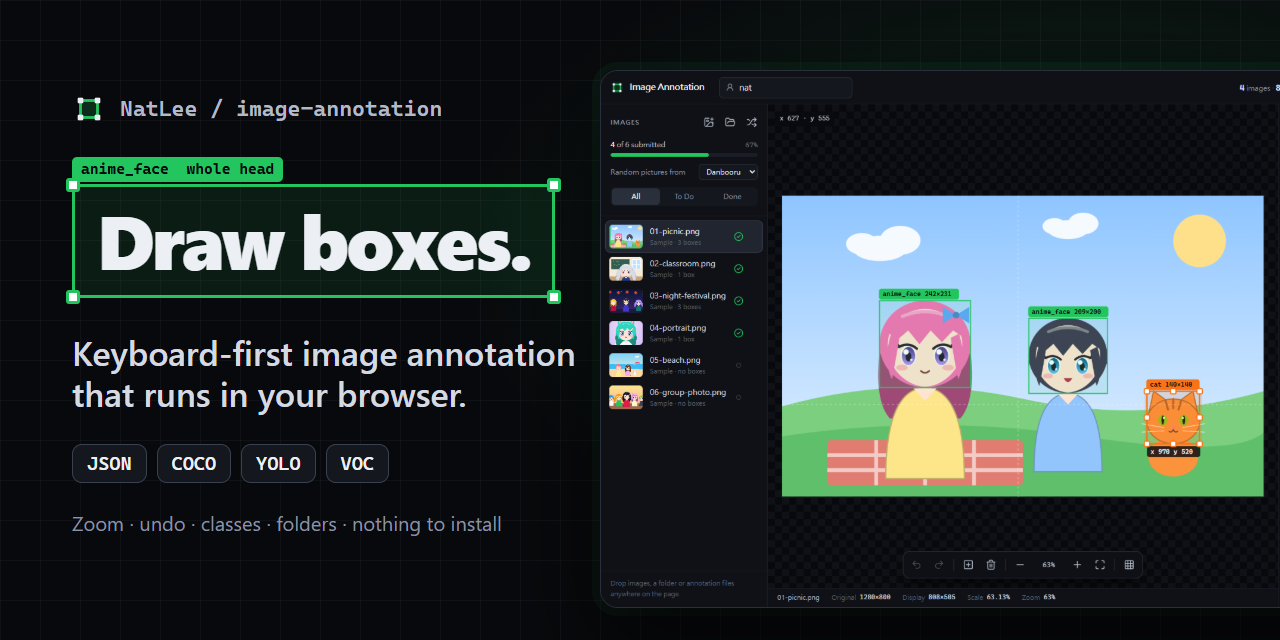
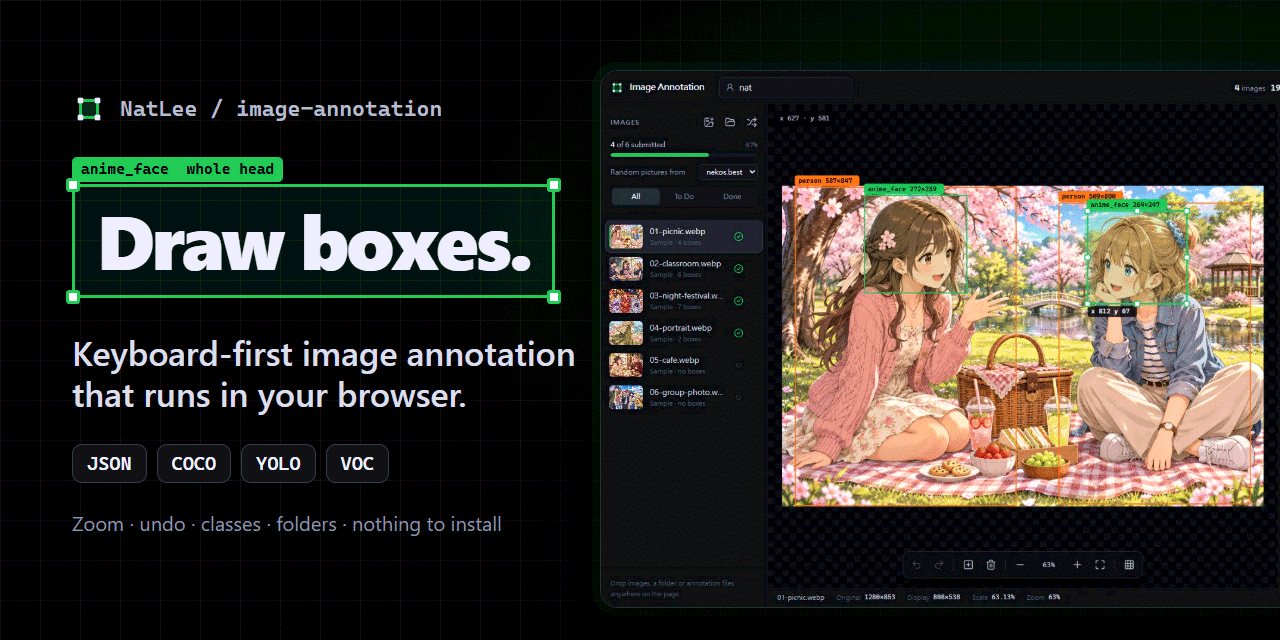
docs: refresh the README for nekos.best by default and the new samples
Screenshots, the GIF and the cover are re-rendered with the new sample
pictures (online sources blocked, so no third-party art is committed).
The editor shot is now a JPEG and the cover is quantised to 256
colours: the detailed pictures made the PNGs three times bigger.

The text says nekos.best is the default, Danbooru is optional, each
picture is one plain request, and failures carry a report code.

diff --git a/docs/images/cover.html b/docs/images/cover.html
@@ -42,7 +42,7 @@
     </style>
   </head>
   <body>
-    <img class="shot" src="editor.png" alt="" />
+    <img class="shot" src="editor.jpg" alt="" />
     <div class="copy">
       <div class="brand">
         <svg width="34" height="34" viewBox="0 0 24 24"><rect x="6" y="6" width="12" height="12" rx="1.5" fill="rgb(34 197 94 / .18)" stroke="#22c55e" stroke-width="2"/><g fill="#eceff4"><rect x="4" y="4" width="4" height="4" rx="1"/><rect x="16" y="4" width="4" height="4" rx="1"/><rect x="4" y="16" width="4" height="4" rx="1"/><rect x="16" y="16" width="4" height="4" rx="1"/></g></svg>

diff --git a/README.md b/README.md
@@ -10,11 +10,11 @@
 ![React 19](https://img.shields.io/badge/React-19-149eca)
 ![Vite 8](https://img.shields.io/badge/Vite-8-646cff)
 
-A keyboard-first bounding-box annotator that runs entirely in your browser. Start with random anime pictures from Danbooru, open a folder of your own images, or use the built-in illustrations offline; drag boxes around what matters, sort them into colour-coded classes, and export everything as COCO, YOLO, Pascal VOC or the app's own JSON. It began as a little crowd-sourcing tool for boxing anime faces, and it still does that, but it now handles any small labelling job. Nothing is uploaded: your work stays in the browser until you export it.
+A keyboard-first bounding-box annotator that runs entirely in your browser. Start with random anime pictures from nekos.best or Danbooru, open a folder of your own images, or use the built-in sample pictures offline; drag boxes around what matters, sort them into colour-coded classes, and export everything as COCO, YOLO, Pascal VOC or the app's own JSON. It began as a little crowd-sourcing tool for boxing anime faces, and it still does that, but it now handles any small labelling job. Nothing is uploaded: your work stays in the browser until you export it.
 
 **[Open the app →](https://natlee.github.io/image-annotation/)**
 
-![The editor: the image list with progress on the left, colour-coded boxes on the canvas, classes and boxes on the right](docs/images/editor.png)
+![The editor: the image list with progress on the left, colour-coded boxes on the canvas, classes and boxes on the right](docs/images/editor.jpg)
 
 ## What it does
 
@@ -24,7 +24,7 @@ A keyboard-first bounding-box annotator that runs entirely in your browser. Star
 - **Undo and redo** every edit, separately for each image.
 - **Work through a list**: thumbnails, status and a progress bar. Open files, a whole folder, or drop them anywhere on the page.
 - **Import and export** JSON, COCO, YOLO and Pascal VOC.
-- **Random anime pictures** from [Danbooru](https://danbooru.donmai.us) (general-audience `rating:g` posts only) or [nekos.best](https://nekos.best), press <kbd>R</kbd>. Each one is credited on the canvas: artist, a link to the post and the original source.
+- **Random anime pictures** from [nekos.best](https://nekos.best), or from [Danbooru](https://danbooru.donmai.us) (general-audience `rating:g` posts only) if you pick it; press <kbd>R</kbd>. Each one is credited on the canvas: artist, a link to the post and the original source.
 - From the original app: the leaderboard, the 10 × 10 grid on <kbd>D</kbd>, and a default box on every new image.
 
 ![Drawing three boxes, zooming in, and submitting with Enter](docs/images/workflow.gif)
@@ -51,7 +51,7 @@ BASE_PATH=image-annotation npm run build   # assets load from /image-annotation/
 ## Annotating, step by step
 
 1. Type your name in the top bar. It is stored with every image you submit and shows up on the leaderboard.
-2. Pick images. The app opens a random Danbooru picture to start with; six original illustrations sit in the list too and take over when you are offline. Add your own with the buttons above the list, or drop files or folders on the page. The menu above the list switches random pictures between Danbooru and nekos.best.
+2. Pick images. The app opens a random nekos.best picture to start with; six sample pictures sit in the list too and take over when you are offline. Add your own with the buttons above the list, or drop files or folders on the page. The menu above the list switches random pictures between nekos.best and Danbooru.
 3. Drag on the image to draw a box. Every new image starts with one default box (a square of 25% of the short side, in the middle), like the original app: adjust it or press <kbd>Del</kbd>.
 4. Press <kbd>Enter</kbd> to submit. After an online picture you get another one; after your own files or the samples, the next image in the list that still needs work.
 5. Export when you are finished. Submitted work survives a page reload; unsubmitted boxes are kept while the tab is open, and the browser warns you before you close it.
@@ -123,14 +123,14 @@ The export is unchanged from the original app, so old files import as they are. 
   "annotation_records": [
     {
       "session_id": "session_1793779304871",
-      "image_url": "samples/01-picnic.png",
-      "original_size": { "width": 1280, "height": 800 },
-      "display_size": { "width": 808, "height": 505 },
+      "image_url": "samples/01-picnic.webp",
+      "original_size": { "width": 1280, "height": 853 },
+      "display_size": { "width": 808, "height": 538 },
       "scale_factor": 0.63125,
       "annotator": "nat",
       "timestamp": "2026-11-04T08:01:44.871Z",
       "bounding_boxes": [
-        { "id": "box_1793779290112_k3j9x0a1b", "x": 540, "y": 300, "width": 200, "height": 200, "label": "anime_face" }
+        { "id": "box_1793779290112_k3j9x0a1b", "x": 533, "y": 320, "width": 213, "height": 213, "label": "anime_face" }
       ]
     }
   ]
@@ -145,7 +145,7 @@ The export is unchanged from the original app, so old files import as they are. 
 flowchart LR
   subgraph sources [Images]
     S[Bundled samples]
-    R[Danbooru rating:g<br/>or nekos.best]
+    R[nekos.best or<br/>Danbooru rating:g]
     L[Your files<br/>and folders]
   end
   S --> Q[Image list]
@@ -160,7 +160,7 @@ flowchart LR
 
 The browser keeps a few things in `localStorage`: `annotation_data` (submitted images, the same key the original app used), `userName`, `image-annotation:classes` and your choice of random source. Your own images are read straight from disk and never leave the browser.
 
-The app goes online only for random pictures: once when it opens, when you press <kbd>R</kbd>, and after you submit an online picture. Danbooru answers 20 general-audience posts per request; the app keeps them in memory and shows them one by one, so most pictures cost no extra request. If Danbooru is unreachable or rate-limiting, you get a message saying so, and the built-in illustrations carry on.
+The app goes online only for random pictures: once when it opens, when you press <kbd>R</kbd>, and after you submit an online picture. Each picture is one plain request with no custom headers (Danbooru may need up to three when its random pick is a video). If a source is down, rate-limiting or unreachable, you get a message with a short report code, for example `danbooru/http-503` or `nekos/network`, and the sample pictures carry on.
 
 ## Development
 
@@ -172,7 +172,6 @@ The app goes online only for random pictures: once when it opens, when you press
 | `npm run lint` | ESLint |
 | `npm test` | Unit tests (Vitest): geometry, undo, storage, every import/export format |
 | `npm run test:e2e` | Browser tests (Playwright) on a build served under `/image-annotation/` |
-| `npm run samples` | Redraw the sample illustrations and `docs/demo-annotations.json` |
 
 The end-to-end tests need a browser: run `npx playwright install chromium` once, or use an installed Edge or Chrome with `PW_CHANNEL=msedge npm run test:e2e`. `scripts/screenshots.mjs` regenerates the images in `docs/images/` from a running build.
 
@@ -182,7 +181,7 @@ CI on GitHub Actions lints, tests and builds every pull request, runs the browse
 
 ## Credits
 
-The six sample pictures are original illustrations drawn in code (`scripts/samples.mjs`); their boxes are in `docs/demo-annotations.json`. They are the only pictures in this repository and in the screenshots. Random pictures load straight from [Danbooru](https://danbooru.donmai.us) or [nekos.best](https://nekos.best) while you use the app, and each one is credited to its artist with links to the post and the original source.
+Random pictures load straight from [nekos.best](https://nekos.best) or [Danbooru](https://danbooru.donmai.us) while you use the app; none of them are stored in this repository. Each one is credited to its artist on the canvas, with links to the post and the original source.
 
 ## License
 
